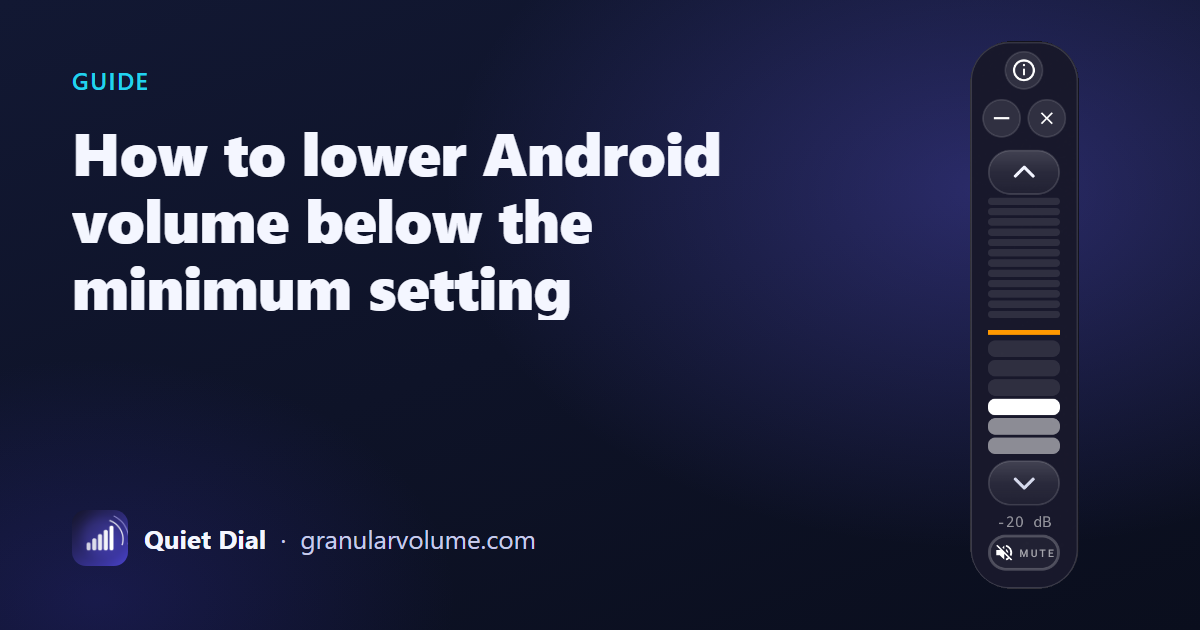
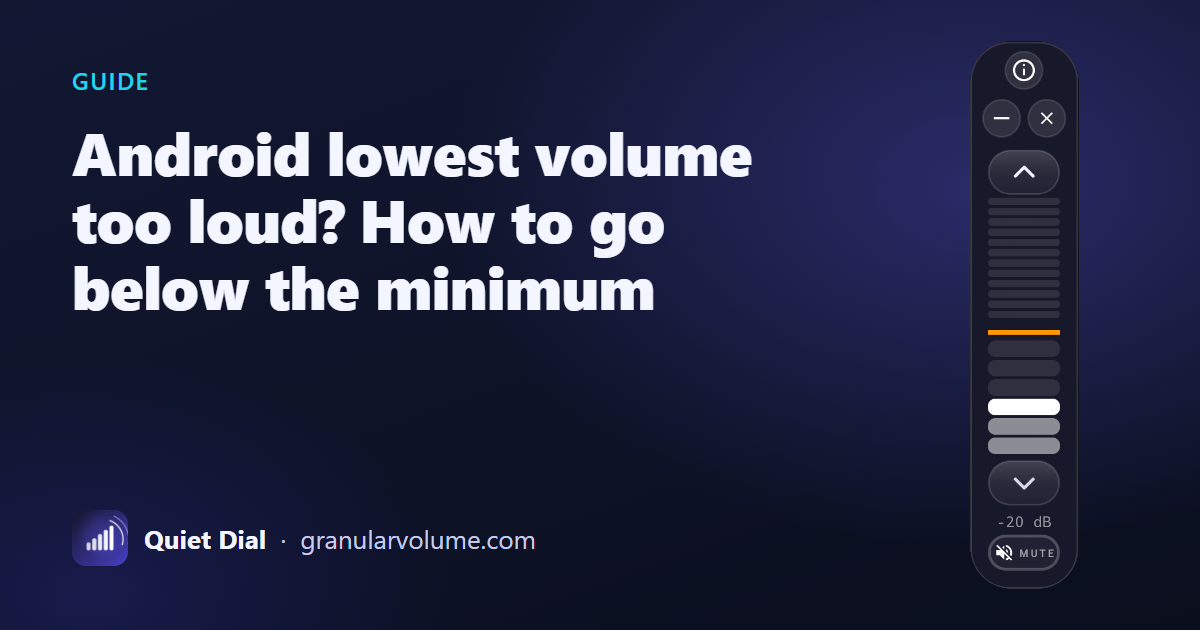
Main guide aimed at the searched problem: 'Android Lowest Volume Too Loud? How to Go Below the Minimum'
Search Console shows the guide's impressions come mostly from problem phrasings
(lowest volume too loud android, android minimum volume too loud) at positions 6 to 8
while its title used solution phrasing. Title, description and H1 now match the
problem; new FAQ entry for 'How do I reduce the minimum volume on Android?' from
Google's People also ask. 404 and llms.txt follow the new title.

Changed region(s): [[0.0617, 0.2111, 0.6475, 0.5127]]

diff --git a/docs/guide/lower-android-volume-below-minimum.html b/docs/guide/lower-android-volume-below-minimum.html
@@ -3,8 +3,8 @@
 <head>
 <meta charset="utf-8">
 <meta name="viewport" content="width=device-width, initial-scale=1">
-<title>How to Lower Android Volume Below the Minimum (2026)</title>
-<meta name="description" content="Every real way to get quieter than Android's lowest volume step: what lowers the floor, what only adds steps, and what is Samsung only. No root.">
+<title>Android Lowest Volume Too Loud? How to Go Below the Minimum</title>
+<meta name="description" content="Android still too loud at the lowest volume, in earbuds or on the speaker? Why the minimum is fixed, what really lowers it, and how to go below it. No root.">
 <meta name="robots" content="index, follow">
 <link rel="canonical" href="https://granularvolume.com/guide/lower-android-volume-below-minimum.html">
 <meta property="og:url" content="https://granularvolume.com/guide/lower-android-volume-below-minimum.html">
@@ -15,27 +15,27 @@
 <link rel="alternate" hreflang="it" href="https://granularvolume.com/it/abbassare-volume-sotto-il-minimo-android.html">
 <link rel="alternate" hreflang="pt-BR" href="https://granularvolume.com/pt/baixar-volume-abaixo-do-minimo-android.html">
 <link rel="alternate" hreflang="x-default" href="https://granularvolume.com/guide/lower-android-volume-below-minimum.html">
-<meta property="og:title" content="How to Lower Android Volume Below the Minimum (2026)">
+<meta property="og:title" content="Android Lowest Volume Too Loud? How to Go Below the Minimum">
 <meta property="og:image" content="https://granularvolume.com/img/og/guide-lower-android-volume-below-minimum.png">
 <meta property="og:image:width" content="1200">
 <meta property="og:image:height" content="630">
-<meta property="og:image:alt" content="How to Lower Android Volume Below the Minimum (2026)">
+<meta property="og:image:alt" content="Android Lowest Volume Too Loud? How to Go Below the Minimum">
 <meta name="twitter:card" content="summary_large_image">
 <meta name="twitter:image" content="https://granularvolume.com/img/og/guide-lower-android-volume-below-minimum.png">
-<meta property="og:description" content="Every real way to get quieter than Android's lowest volume step: what lowers the floor, what only adds steps, and what is Samsung only. No root.">
+<meta property="og:description" content="Android still too loud at the lowest volume, in earbuds or on the speaker? Why the minimum is fixed, what really lowers it, and how to go below it. No root.">
 <meta property="og:type" content="article">
 <link rel="icon" href="../img/icon.png">
 <script type="application/ld+json">
 {
   "@context": "https://schema.org",
   "@type": "Article",
-  "headline": "How to Lower Android Volume Below the Minimum (2026)",
-  "description": "Every real way to get quieter than Android's lowest volume step: what lowers the floor, what only adds steps, and what is Samsung only. No root.",
+  "headline": "Android Lowest Volume Too Loud? How to Go Below the Minimum",
+  "description": "Android still too loud at the lowest volume, in earbuds or on the speaker? Why the minimum is fixed, what really lowers it, and how to go below it. No root.",
   "image": "https://granularvolume.com/img/og/guide-lower-android-volume-below-minimum.png",
   "author": {"@type": "Person", "name": "Rotem Zussman"},
   "publisher": {"@type": "Organization", "@id": "https://granularvolume.com/#org", "name": "Granular Volume", "url": "https://granularvolume.com/"},
   "datePublished": "2026-07-13",
-  "dateModified": "2026-10-23",
+  "dateModified": "2026-10-24",
   "mainEntityOfPage": "https://granularvolume.com/guide/lower-android-volume-below-minimum.html"
 }
 </script>
@@ -44,6 +44,11 @@
   "@context": "https://schema.org",
   "@type": "FAQPage",
   "mainEntity": [
+    {
+      "@type": "Question",
+      "name": "How do I reduce the minimum volume on Android?",
+      "acceptedAnswer": {"@type": "Answer", "text": "Stock Android has no setting for it: the lowest step is fixed by the device. Free things change how the steps are spread (Sound Assistant on Samsung, Disable absolute volume for Bluetooth) but not the floor itself. To go below it, Quiet Dial lowers Android's own output in six steps of 5 dB, down to 30 dB under the minimum, without root."}
+    },
     {
       "@type": "Question",
       "name": "Does dragging the on-screen slider go lower than the buttons?",
@@ -337,7 +342,7 @@
   html.gv-rf body,html.gv-rf body *{font-family:Arial,Helvetica,sans-serif !important;letter-spacing:.02em;word-spacing:.06em;}
   @media print{.gv-a11y{display:none !important;}}
 </style>
-<script type="application/ld+json" data-gv="crumbs">{"@context": "https://schema.org", "@type": "BreadcrumbList", "itemListElement": [{"@type": "ListItem", "position": 1, "name": "Quiet Dial", "item": "https://granularvolume.com/"}, {"@type": "ListItem", "position": 2, "name": "How to lower Android volume below the minimum setting", "item": "https://granularvolume.com/guide/lower-android-volume-below-minimum.html"}]}</script>
+<script type="application/ld+json" data-gv="crumbs">{"@context": "https://schema.org", "@type": "BreadcrumbList", "itemListElement": [{"@type": "ListItem", "position": 1, "name": "Quiet Dial", "item": "https://granularvolume.com/"}, {"@type": "ListItem", "position": 2, "name": "Android lowest volume too loud? How to go below the minimum", "item": "https://granularvolume.com/guide/lower-android-volume-below-minimum.html"}]}</script>
 </head>
 <body>
 <a class="skip-link" href="#main">Skip to the main content</a><!--GV-POLISH-NAV--><nav class="gv-nav" aria-label="Site"><div class="gv-nav-in"><a class="gv-brand" href="/"><img src="/img/icon.webp" width="30" height="30" alt=""><span>Quiet Dial</span></a><a class="gv-link" href="/#guides">Guides</a><a class="gv-link" href="/help.html">Help</a><a class="gv-play" href="https://play.google.com/store/apps/details?id=granularvolume.com&amp;referrer=utm_source%3Dsite%26utm_medium%3Dnav%26utm_campaign%3Dlower-android-volume-below-minimum" data-goatcounter-click="play-nav-guide-lower-android-volume-below-minimum"><svg aria-hidden="true" viewBox="0 0 24 24" width="16" height="16"><path fill="currentColor" d="M7 4.5v15a1 1 0 0 0 1.5.86l12.5-7.5a1 1 0 0 0 0-1.72L8.5 3.64A1 1 0 0 0 7 4.5z"/></svg>Google Play</a></div></nav><!--GV-POLISH-NAV-END-->
@@ -347,9 +352,9 @@
   <header class="top">
     <div class="crumb"><a href="../">Quiet Dial</a> / Guide</div>
     <div class="icon"><img width="512" height="512" src="../img/icon.webp" alt="Quiet Dial icon"></div>
-    <h1>How to lower Android volume below the minimum setting</h1>
+    <h1>Android lowest volume too loud? How to go below the minimum</h1>
     <p class="dek">Every real method, ranked honestly by what actually lowers the floor versus what just adds more clicks in between. No root required for any of these.</p>
-    <p class="meta">Updated October 23, 2026 · 10 min read</p>
+    <p class="meta">Updated October 24, 2026 · 10 min read</p>
   </header>
 <main id="main" tabindex="-1">
 
@@ -486,6 +491,8 @@
 
     <h2 id="faq">FAQ</h2>
     <dl class="faq">
+      <dt>How do I reduce the minimum volume on Android?</dt>
+      <dd>Stock Android has no setting for it: the lowest step is fixed by the device. Free things change how the steps are spread (<a href="samsung-sound-assistant-volume-too-loud.html">Sound Assistant</a> on Samsung, <a href="disable-absolute-volume-android.html">Disable absolute volume</a> for Bluetooth) but not the floor itself. To go below it, Quiet Dial lowers Android's own output in six steps of 5&nbsp;dB, down to 30&nbsp;dB under the minimum, without root.</dd>
       <dt>Does dragging the on-screen slider go lower than the buttons?</dt>
       <dd>Not below the floor. On stock Android each volume is stored as a whole-number step, so the on-screen slider and the buttons land on the same steps. Some manufacturers' versions let the slider stop between those steps, and tools such as Sound Assistant change the step size itself, which makes the steps finer. In every case the bottom of the range stays where it was.</dd>
       <dt>Why is my phone's lowest volume setting still so loud?</dt>

diff --git a/docs/guide/xiaomi-redmi-poco-volume-too-loud-lowest.html b/docs/guide/xiaomi-redmi-poco-volume-too-loud-lowest.html
@@ -257,8 +257,8 @@
 <script type="application/ld+json" data-gv="crumbs">{"@context": "https://schema.org", "@type": "BreadcrumbList", "itemListElement": [{"@type": "ListItem", "position": 1, "name": "Quiet Dial", "item": "https://granularvolume.com/"}, {"@type": "ListItem", "position": 2, "name": "Xiaomi, Redmi or POCO too loud at the lowest volume?", "item": "https://granularvolume.com/guide/xiaomi-redmi-poco-volume-too-loud-lowest.html"}]}</script>
 </head>
 <body>
-<a class="skip-link" href="#main">Skip to the main content</a>
-<!--GV-POLISH-NAV--><nav class="gv-nav" aria-label="Site"><div class="gv-nav-in"><a class="gv-brand" href="/"><img src="/img/icon.webp" width="30" height="30" alt=""><span>Quiet Dial</span></a><a class="gv-link" href="/#guides">Guides</a><a class="gv-link" href="/help.html">Help</a><a class="gv-play" href="https://play.google.com/store/apps/details?id=granularvolume.com&amp;referrer=utm_source%3Dsite%26utm_medium%3Dnav%26utm_campaign%3Dxiaomi-redmi-poco-volume-too-loud-lowest" data-goatcounter-click="play-nav-guide-xiaomi-redmi-poco-volume-too-loud-lowest"><svg aria-hidden="true" viewBox="0 0 24 24" width="16" height="16"><path fill="currentColor" d="M7 4.5v15a1 1 0 0 0 1.5.86l12.5-7.5a1 1 0 0 0 0-1.72L8.5 3.64A1 1 0 0 0 7 4.5z"/></svg>Google Play</a></div></nav><!--GV-POLISH-NAV-END-->
+<a class="skip-link" href="#main">Skip to the main content</a><!--GV-POLISH-NAV--><nav class="gv-nav" aria-label="Site"><div class="gv-nav-in"><a class="gv-brand" href="/"><img src="/img/icon.webp" width="30" height="30" alt=""><span>Quiet Dial</span></a><a class="gv-link" href="/#guides">Guides</a><a class="gv-link" href="/help.html">Help</a><a class="gv-play" href="https://play.google.com/store/apps/details?id=granularvolume.com&amp;referrer=utm_source%3Dsite%26utm_medium%3Dnav%26utm_campaign%3Dxiaomi-redmi-poco-volume-too-loud-lowest" data-goatcounter-click="play-nav-guide-xiaomi-redmi-poco-volume-too-loud-lowest"><svg aria-hidden="true" viewBox="0 0 24 24" width="16" height="16"><path fill="currentColor" d="M7 4.5v15a1 1 0 0 0 1.5.86l12.5-7.5a1 1 0 0 0 0-1.72L8.5 3.64A1 1 0 0 0 7 4.5z"/></svg>Google Play</a></div></nav><!--GV-POLISH-NAV-END-->
+
 <div class="wrap">
 
   <header class="top">

diff --git a/docs/guide/samsung-sound-assistant-volume-too-loud.html b/docs/guide/samsung-sound-assistant-volume-too-loud.html
@@ -265,8 +265,8 @@
 <script type="application/ld+json" data-gv="crumbs">{"@context": "https://schema.org", "@type": "BreadcrumbList", "itemListElement": [{"@type": "ListItem", "position": 1, "name": "Quiet Dial", "item": "https://granularvolume.com/"}, {"@type": "ListItem", "position": 2, "name": "Samsung Sound Assistant and a volume that is too loud", "item": "https://granularvolume.com/guide/samsung-sound-assistant-volume-too-loud.html"}]}</script>
 </head>
 <body>
-<a class="skip-link" href="#main">Skip to the main content</a>
-<!--GV-POLISH-NAV--><nav class="gv-nav" aria-label="Site"><div class="gv-nav-in"><a class="gv-brand" href="/"><img src="/img/icon.webp" width="30" height="30" alt=""><span>Quiet Dial</span></a><a class="gv-link" href="/#guides">Guides</a><a class="gv-link" href="/help.html">Help</a><a class="gv-play" href="https://play.google.com/store/apps/details?id=granularvolume.com&amp;referrer=utm_source%3Dsite%26utm_medium%3Dnav%26utm_campaign%3Dsamsung-sound-assistant-volume-too-loud" data-goatcounter-click="play-nav-guide-samsung-sound-assistant-volume-too-loud"><svg aria-hidden="true" viewBox="0 0 24 24" width="16" height="16"><path fill="currentColor" d="M7 4.5v15a1 1 0 0 0 1.5.86l12.5-7.5a1 1 0 0 0 0-1.72L8.5 3.64A1 1 0 0 0 7 4.5z"/></svg>Google Play</a></div></nav><!--GV-POLISH-NAV-END-->
+<a class="skip-link" href="#main">Skip to the main content</a><!--GV-POLISH-NAV--><nav class="gv-nav" aria-label="Site"><div class="gv-nav-in"><a class="gv-brand" href="/"><img src="/img/icon.webp" width="30" height="30" alt=""><span>Quiet Dial</span></a><a class="gv-link" href="/#guides">Guides</a><a class="gv-link" href="/help.html">Help</a><a class="gv-play" href="https://play.google.com/store/apps/details?id=granularvolume.com&amp;referrer=utm_source%3Dsite%26utm_medium%3Dnav%26utm_campaign%3Dsamsung-sound-assistant-volume-too-loud" data-goatcounter-click="play-nav-guide-samsung-sound-assistant-volume-too-loud"><svg aria-hidden="true" viewBox="0 0 24 24" width="16" height="16"><path fill="currentColor" d="M7 4.5v15a1 1 0 0 0 1.5.86l12.5-7.5a1 1 0 0 0 0-1.72L8.5 3.64A1 1 0 0 0 7 4.5z"/></svg>Google Play</a></div></nav><!--GV-POLISH-NAV-END-->
+
 <div class="wrap">
 
   <header class="top">

diff --git a/docs/guide/usb-c-wired-earphones-too-loud-lowest.html b/docs/guide/usb-c-wired-earphones-too-loud-lowest.html
@@ -257,8 +257,8 @@
 <script type="application/ld+json" data-gv="crumbs">{"@context": "https://schema.org", "@type": "BreadcrumbList", "itemListElement": [{"@type": "ListItem", "position": 1, "name": "Quiet Dial", "item": "https://granularvolume.com/"}, {"@type": "ListItem", "position": 2, "name": "USB-C or wired earphones too loud at the lowest volume?", "item": "https://granularvolume.com/guide/usb-c-wired-earphones-too-loud-lowest.html"}]}</script>
 </head>
 <body>
-<a class="skip-link" href="#main">Skip to the main content</a>
-<!--GV-POLISH-NAV--><nav class="gv-nav" aria-label="Site"><div class="gv-nav-in"><a class="gv-brand" href="/"><img src="/img/icon.webp" width="30" height="30" alt=""><span>Quiet Dial</span></a><a class="gv-link" href="/#guides">Guides</a><a class="gv-link" href="/help.html">Help</a><a class="gv-play" href="https://play.google.com/store/apps/details?id=granularvolume.com&amp;referrer=utm_source%3Dsite%26utm_medium%3Dnav%26utm_campaign%3Dusb-c-wired-earphones-too-loud-lowest" data-goatcounter-click="play-nav-guide-usb-c-wired-earphones-too-loud-lowest"><svg aria-hidden="true" viewBox="0 0 24 24" width="16" height="16"><path fill="currentColor" d="M7 4.5v15a1 1 0 0 0 1.5.86l12.5-7.5a1 1 0 0 0 0-1.72L8.5 3.64A1 1 0 0 0 7 4.5z"/></svg>Google Play</a></div></nav><!--GV-POLISH-NAV-END-->
+<a class="skip-link" href="#main">Skip to the main content</a><!--GV-POLISH-NAV--><nav class="gv-nav" aria-label="Site"><div class="gv-nav-in"><a class="gv-brand" href="/"><img src="/img/icon.webp" width="30" height="30" alt=""><span>Quiet Dial</span></a><a class="gv-link" href="/#guides">Guides</a><a class="gv-link" href="/help.html">Help</a><a class="gv-play" href="https://play.google.com/store/apps/details?id=granularvolume.com&amp;referrer=utm_source%3Dsite%26utm_medium%3Dnav%26utm_campaign%3Dusb-c-wired-earphones-too-loud-lowest" data-goatcounter-click="play-nav-guide-usb-c-wired-earphones-too-loud-lowest"><svg aria-hidden="true" viewBox="0 0 24 24" width="16" height="16"><path fill="currentColor" d="M7 4.5v15a1 1 0 0 0 1.5.86l12.5-7.5a1 1 0 0 0 0-1.72L8.5 3.64A1 1 0 0 0 7 4.5z"/></svg>Google Play</a></div></nav><!--GV-POLISH-NAV-END-->
+
 <div class="wrap">
 
   <header class="top">

diff --git a/docs/404.html b/docs/404.html
@@ -34,14 +34,14 @@
 /*GV-POLISH-NAV-END*/
 </style>
 </head>
-<body><!--GV-POLISH-NAV--><nav class="gv-nav" aria-label="Site"><div class="gv-nav-in"><a class="gv-brand" href="/"><img src="/img/icon.webp" width="30" height="30" alt=""><span>Quiet Dial</span></a><a class="gv-play" href="https://play.google.com/store/apps/details?id=granularvolume.com&amp;referrer=utm_source%3Dsite%26utm_medium%3Dnav%26utm_campaign%3D404" data-goatcounter-click="play-nav-404"><svg aria-hidden="true" viewBox="0 0 24 24" width="16" height="16"><path fill="currentColor" d="M7 4.5v15a1 1 0 0 0 1.5.86l12.5-7.5a1 1 0 0 0 0-1.72L8.5 3.64A1 1 0 0 0 7 4.5z"/></svg>Google Play</a></div></nav><!--GV-POLISH-NAV-END-->
-
+<body>
+<!--GV-POLISH-NAV--><nav class="gv-nav" aria-label="Site"><div class="gv-nav-in"><a class="gv-brand" href="/"><img src="/img/icon.webp" width="30" height="30" alt=""><span>Quiet Dial</span></a><a class="gv-play" href="https://play.google.com/store/apps/details?id=granularvolume.com&amp;referrer=utm_source%3Dsite%26utm_medium%3Dnav%26utm_campaign%3D404" data-goatcounter-click="play-nav-404"><svg aria-hidden="true" viewBox="0 0 24 24" width="16" height="16"><path fill="currentColor" d="M7 4.5v15a1 1 0 0 0 1.5.86l12.5-7.5a1 1 0 0 0 0-1.72L8.5 3.64A1 1 0 0 0 7 4.5z"/></svg>Google Play</a></div></nav><!--GV-POLISH-NAV-END-->
 <main class="wrap">
   <h1>That page is not here</h1>
   <p>The address may have changed, or the link was mistyped. These are the pages people usually want:</p>
   <ul>
     <li><a href="/">Quiet Dial, the home page</a></li>
-    <li><a href="/guide/lower-android-volume-below-minimum.html">How to lower Android volume below the minimum</a></li>
+    <li><a href="/guide/lower-android-volume-below-minimum.html">Android lowest volume too loud? How to go below the minimum</a></li>
     <li><a href="/guide/volume-buttons-not-working-android.html">Volume buttons not working on Android</a></li>
     <li><a href="/guide/tablet-volume-too-loud-lowest-setting.html">Tablet too loud at the lowest setting</a></li>
     <li><a href="/guide/bluetooth-earbuds-volume-too-loud-lowest.html">Bluetooth headphones or earbuds too loud at the lowest volume</a></li>

diff --git a/docs/guide/oneplus-volume-too-loud-lowest.html b/docs/guide/oneplus-volume-too-loud-lowest.html
@@ -257,8 +257,8 @@
 <script type="application/ld+json" data-gv="crumbs">{"@context": "https://schema.org", "@type": "BreadcrumbList", "itemListElement": [{"@type": "ListItem", "position": 1, "name": "Quiet Dial", "item": "https://granularvolume.com/"}, {"@type": "ListItem", "position": 2, "name": "OnePlus too loud at the lowest volume?", "item": "https://granularvolume.com/guide/oneplus-volume-too-loud-lowest.html"}]}</script>
 </head>
 <body>
-<a class="skip-link" href="#main">Skip to the main content</a>
-<!--GV-POLISH-NAV--><nav class="gv-nav" aria-label="Site"><div class="gv-nav-in"><a class="gv-brand" href="/"><img src="/img/icon.webp" width="30" height="30" alt=""><span>Quiet Dial</span></a><a class="gv-link" href="/#guides">Guides</a><a class="gv-link" href="/help.html">Help</a><a class="gv-play" href="https://play.google.com/store/apps/details?id=granularvolume.com&amp;referrer=utm_source%3Dsite%26utm_medium%3Dnav%26utm_campaign%3Doneplus-volume-too-loud-lowest" data-goatcounter-click="play-nav-guide-oneplus-volume-too-loud-lowest"><svg aria-hidden="true" viewBox="0 0 24 24" width="16" height="16"><path fill="currentColor" d="M7 4.5v15a1 1 0 0 0 1.5.86l12.5-7.5a1 1 0 0 0 0-1.72L8.5 3.64A1 1 0 0 0 7 4.5z"/></svg>Google Play</a></div></nav><!--GV-POLISH-NAV-END-->
+<a class="skip-link" href="#main">Skip to the main content</a><!--GV-POLISH-NAV--><nav class="gv-nav" aria-label="Site"><div class="gv-nav-in"><a class="gv-brand" href="/"><img src="/img/icon.webp" width="30" height="30" alt=""><span>Quiet Dial</span></a><a class="gv-link" href="/#guides">Guides</a><a class="gv-link" href="/help.html">Help</a><a class="gv-play" href="https://play.google.com/store/apps/details?id=granularvolume.com&amp;referrer=utm_source%3Dsite%26utm_medium%3Dnav%26utm_campaign%3Doneplus-volume-too-loud-lowest" data-goatcounter-click="play-nav-guide-oneplus-volume-too-loud-lowest"><svg aria-hidden="true" viewBox="0 0 24 24" width="16" height="16"><path fill="currentColor" d="M7 4.5v15a1 1 0 0 0 1.5.86l12.5-7.5a1 1 0 0 0 0-1.72L8.5 3.64A1 1 0 0 0 7 4.5z"/></svg>Google Play</a></div></nav><!--GV-POLISH-NAV-END-->
+
 <div class="wrap">
 
   <header class="top">
